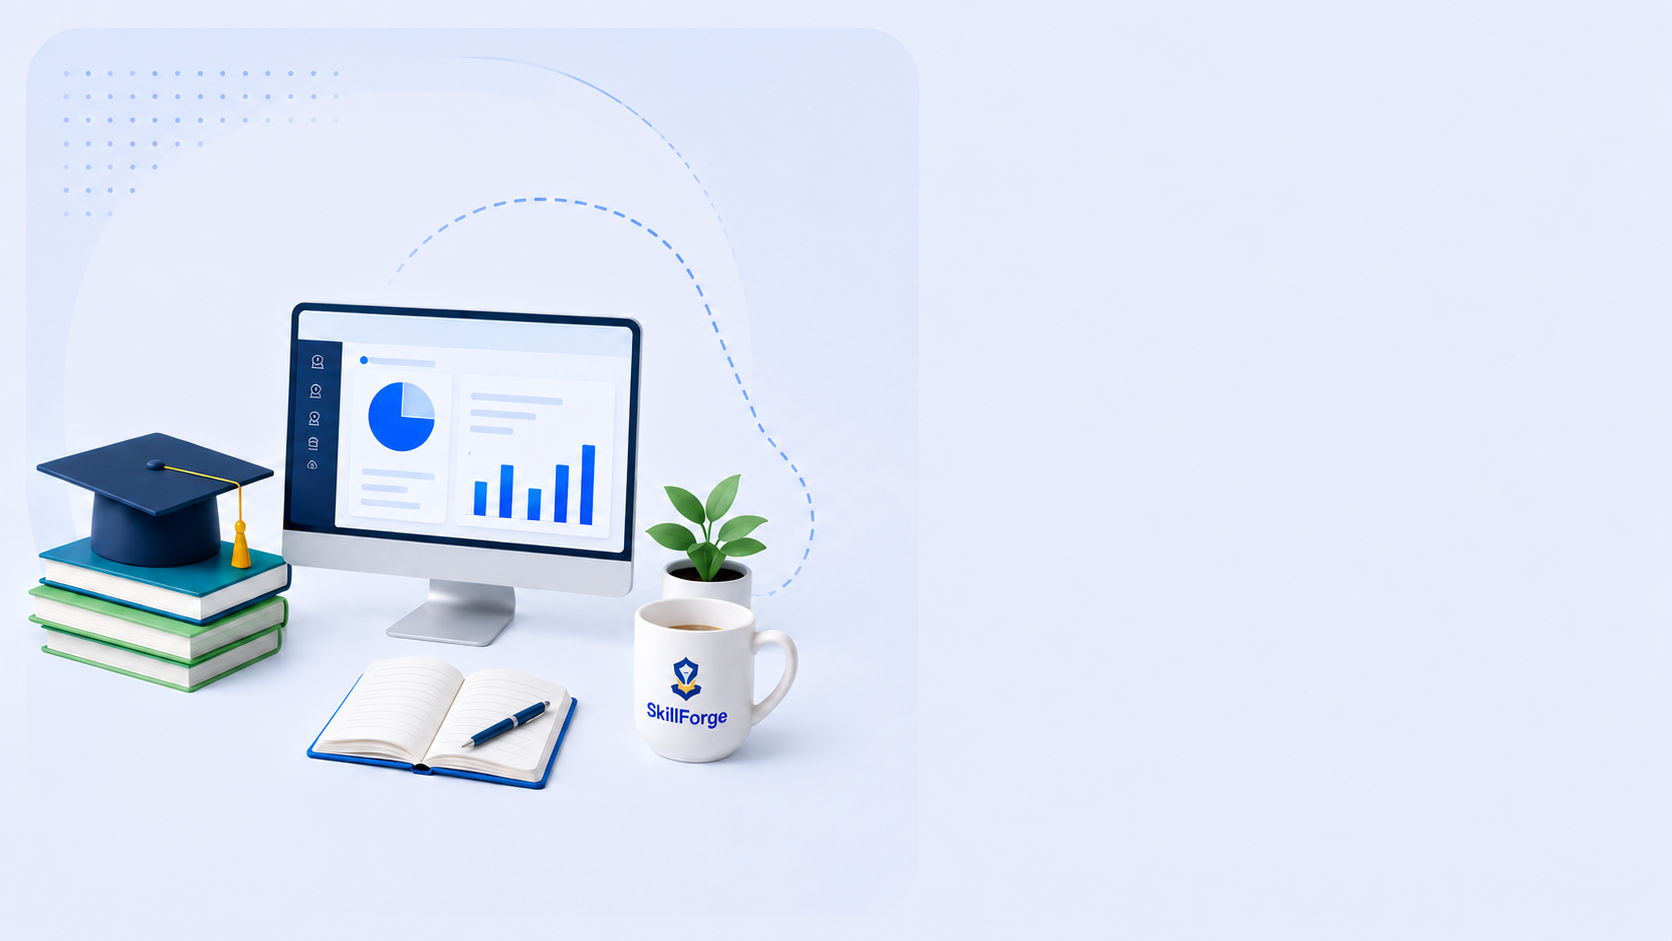
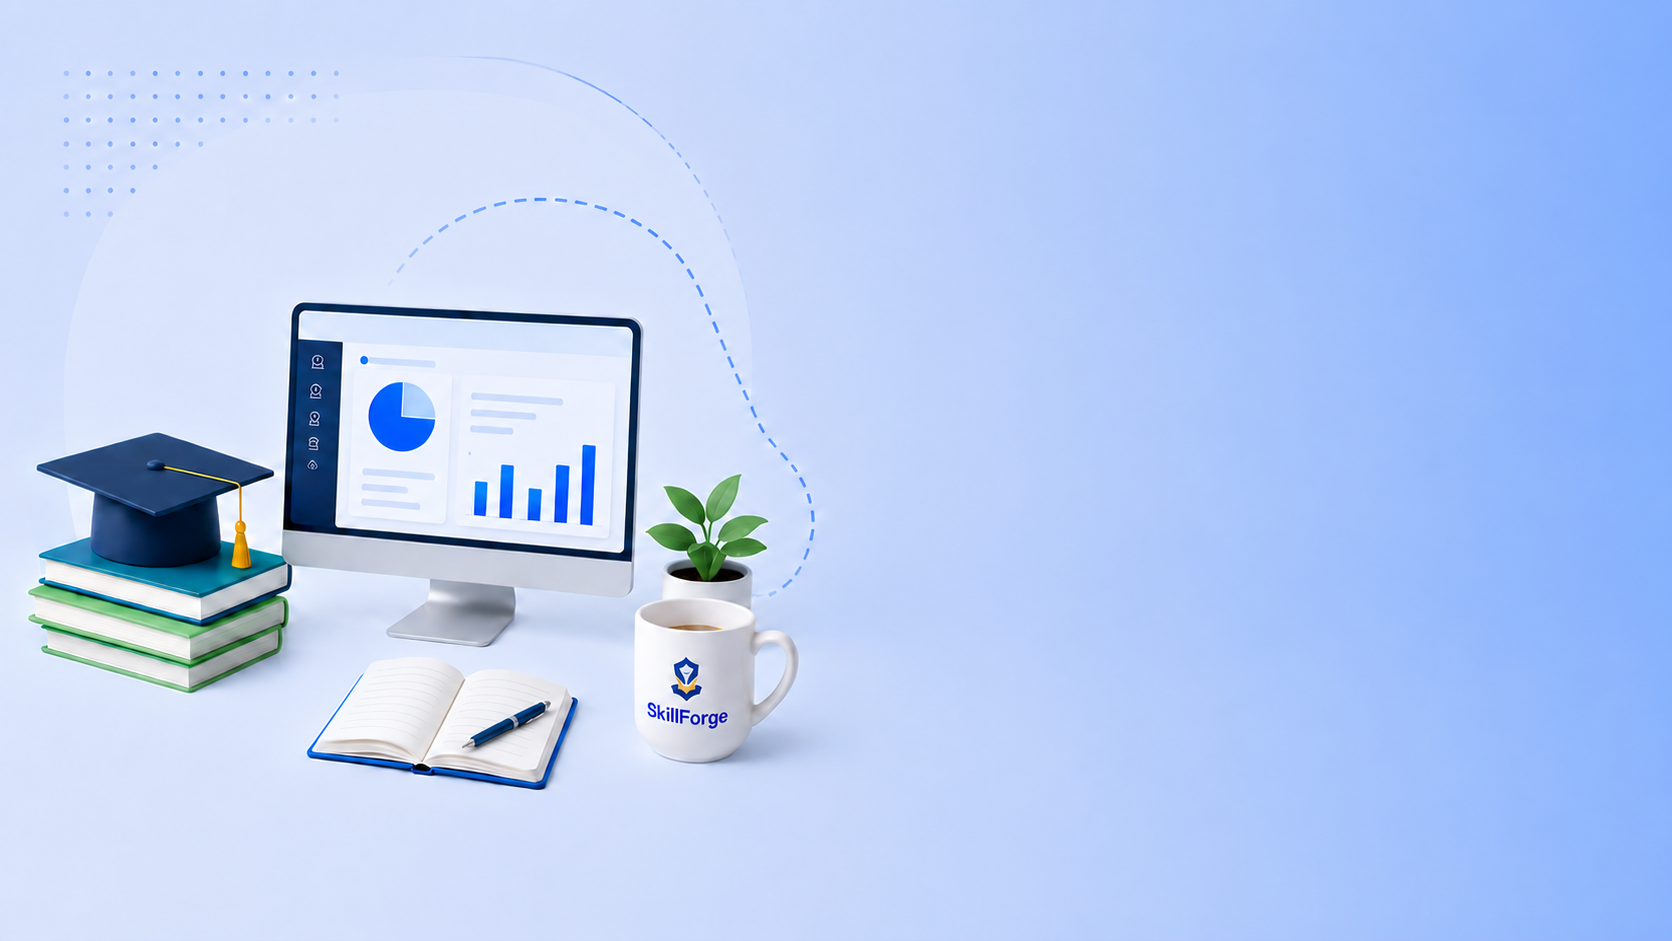
fixed nav bar styles

diff --git a/styles.css b/styles.css
@@ -108,7 +108,7 @@ nav {
   display: flex;
   justify-content: space-between;
   align-items: center;
-  padding: 1em 2em;
+  padding: 1em 2.5em;
   width: 100%;
   margin-bottom: 0;
   padding-top: 0;
@@ -120,9 +120,7 @@ nav {
 
 .custom-nav {
   background-color: rgba(0, 0, 0, 0.3);
-  backdrop-filter: blur(12px);
-  -webkit-backdrop-filter: blur(12px);
-  box-shadow: 0 10px 15px -3px rgba(0, 0, 0, 0.1), 0 4px 6px -4px rgba(0, 0, 0, 0.1);
+  backdrop-filter: blur(8px);
 }
 
 .nav-left {
@@ -145,36 +143,33 @@ nav {
 }
 
 .nav-ul li a{
-  padding: 0.7em;
-  border-radius: 0.5em;
-  text-decoration: none;
-  color: inherit;
-}
-
-.login {
-  display: flex;
-  align-items: center;
-  color: #ffffff;
-  gap: 2em;
-  list-style: none;
-}
-
-.login a {
   padding: 0.5em;
   border-radius: 0.5em;
   text-decoration: none;
   color: inherit;
+  border: 1px solid transparent;
 }
 
 
-.nav-ul li a:hover, .login a:hover {
+#login{
+  padding: 0.5em;
+  border-radius: 0.5em;
+  color: #ffffff;
+  background-color: #007bff;
+  text-decoration: none;
+  border: 1px solid transparent;
+}
+
+
+.nav-ul li a:hover, #login:hover {
   background: rgba(255, 255, 255, 0.12);
-  backdrop-filter: blur(8px);
-  -webkit-backdrop-filter: blur(8px);
   color: #ffffff;
   border: 1px solid rgba(255, 255, 255, 0.2);
-  box-shadow: 0 4px 15px 0 rgba(255, 255, 255, 0.05), 
-              inset 0 1px 1px 0 rgba(255, 255, 255, 0.2);
+  
+}
+
+#login:hover {
+  background-color: #0157eb;
 }
 
 #hero {
@@ -192,7 +187,7 @@ nav {
 .icon {
   display: inline;
   height: 1em;
-  filter: invert(30%) sepia(100%) saturate(500%) hue-rotate(190deg) brightness(100%);
+  fill: #3c5ec3;
 }
 
 .empower {
@@ -240,6 +235,7 @@ nav {
 
 #btn-fill {
   background-color: #0151e6;
+  border: 2px #0151e6 solid;
 }
 
 #btn-out {
@@ -249,8 +245,19 @@ nav {
 
 .arrow {
   display: inline;
-  height: 3vh;
+  height: 1.8vh;
+  margin-left: 0.5em;
+
 }
+
+#btn-fill svg{
+  fill: #ffffff;
+}
+
+#btn-out svg{
+  fill: #0151e6;
+}
+
 
 #btn-fill:hover {
   cursor: pointer;
@@ -445,7 +452,7 @@ nav {
 
 #about{
   background-image: url(img/about-img.png);
-  background-image: url(img/about.png);
+  /* background-image: url(img/about.png); */
   background-size: cover;
   background-position: center;
   background-repeat: no-repeat;

diff --git a/index.html b/index.html
@@ -6,6 +6,7 @@
   <meta name="viewport" content="width=device-width, initial-scale=1.0">
   <title>SkillForge — Online Learning Platform</title>
   <link rel="stylesheet" href="styles.css">
+  <link rel="shortcut icon" href="img/icon.png" type="image/x-icon">
 </head>
 
 <body>
@@ -21,10 +22,7 @@
           <li><a href="#contact">Contact</a></li>
         </ul>
       </div>
-      <div class="login">
         <a id="login" href="#login">Login</a>
-        <a id="register" href="#register">Register</a>
-      </div>
     </nav>
   </header>
 
@@ -33,7 +31,11 @@
 
     <div class="hero-text-box">
       <div class="empower">
-        <img src="img/icons/rocket.png" alt="rocket-icon" class="icon">
+        <svg class="icon" xmlns="http://www.w3.org/2000/svg" viewBox="0 0 512 512">
+          <path
+            d="M128 320L24.5 320c-24.9 0-40.2-27.1-27.4-48.5L50 183.3C58.7 168.8 74.3 160 91.2 160l95 0c76.1-128.9 189.6-135.4 265.5-124.3 12.8 1.9 22.8 11.9 24.6 24.6 11.1 75.9 4.6 189.4-124.3 265.5l0 95c0 16.9-8.8 32.5-23.3 41.2l-88.2 52.9c-21.3 12.8-48.5-2.6-48.5-27.4L192 384c0-35.3-28.7-64-64-64l-.1 0zM400 160a48 48 0 1 0 -96 0 48 48 0 1 0 96 0z" />
+        </svg>
+
         <span id="icon">Empower Your Future</span>
       </div>
 
@@ -45,10 +47,15 @@
         <p>real-world success.</p>
       </div>
       <div id="btn">
-        <button type="submit" class="btn" id="btn-fill">Get Started <img src="img/icons/arrow.png" alt=""
-            class="arrow"></button>
-        <button type="submit" class="btn" id="btn-out">Explore Courses <img src="img/icons/arrow-blue.png" alt=""
-            class="arrow"></button>
+        <button type="submit" class="btn" id="btn-fill">Get Started<svg class="arrow" xmlns="http://www.w3.org/2000/svg" viewBox="0 0 512 512">
+            <path
+              d="M502.6 278.6c12.5-12.5 12.5-32.8 0-45.3l-160-160c-12.5-12.5-32.8-12.5-45.3 0s-12.5 32.8 0 45.3L402.7 224 32 224c-17.7 0-32 14.3-32 32s14.3 32 32 32l370.7 0-105.4 105.4c-12.5 12.5-12.5 32.8 0 45.3s32.8 12.5 45.3 0l160-160z" />
+          </svg>
+        </button>
+        <button type="submit" class="btn" id="btn-out">Explore Courses<svg class="arrow" xmlns="http://www.w3.org/2000/svg" viewBox="0 0 512 512">
+            <path
+              d="M502.6 278.6c12.5-12.5 12.5-32.8 0-45.3l-160-160c-12.5-12.5-32.8-12.5-45.3 0s-12.5 32.8 0 45.3L402.7 224 32 224c-17.7 0-32 14.3-32 32s14.3 32 32 32l370.7 0-105.4 105.4c-12.5 12.5-12.5 32.8 0 45.3s32.8 12.5 45.3 0l160-160z" />
+          </svg></button>
       </div>
 
       <div class="sucess">